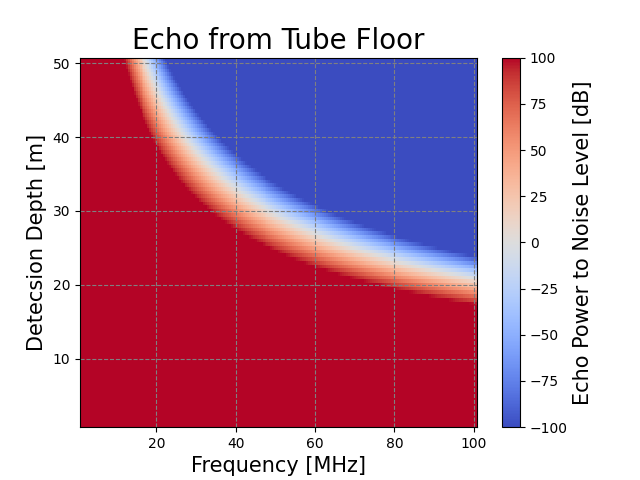
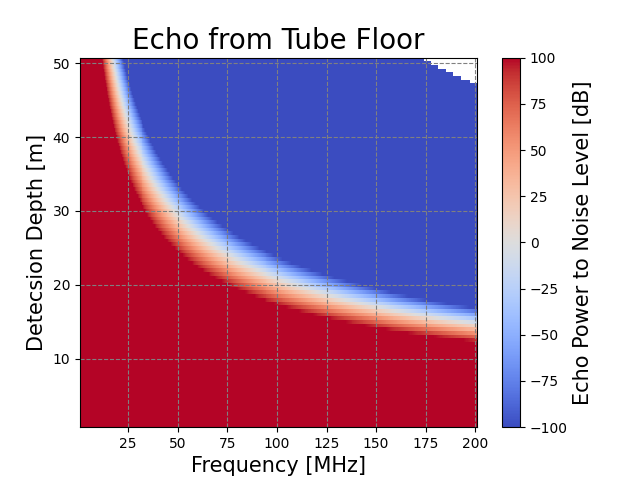
周波数の範囲変更

diff --git a/recieved_power.py b/recieved_power.py
@@ -34,7 +34,7 @@ print('投下係数', through)
 
 def freq_depth_power():
     #meshの作成
-    freq = np.arange(1, 101, 0.5)
+    freq = np.arange(1, 201, 0.5)
     depth = np.arange(1, 51, 0.5)
     f, d = np.meshgrid(freq, depth)
     #ノイズレベル
